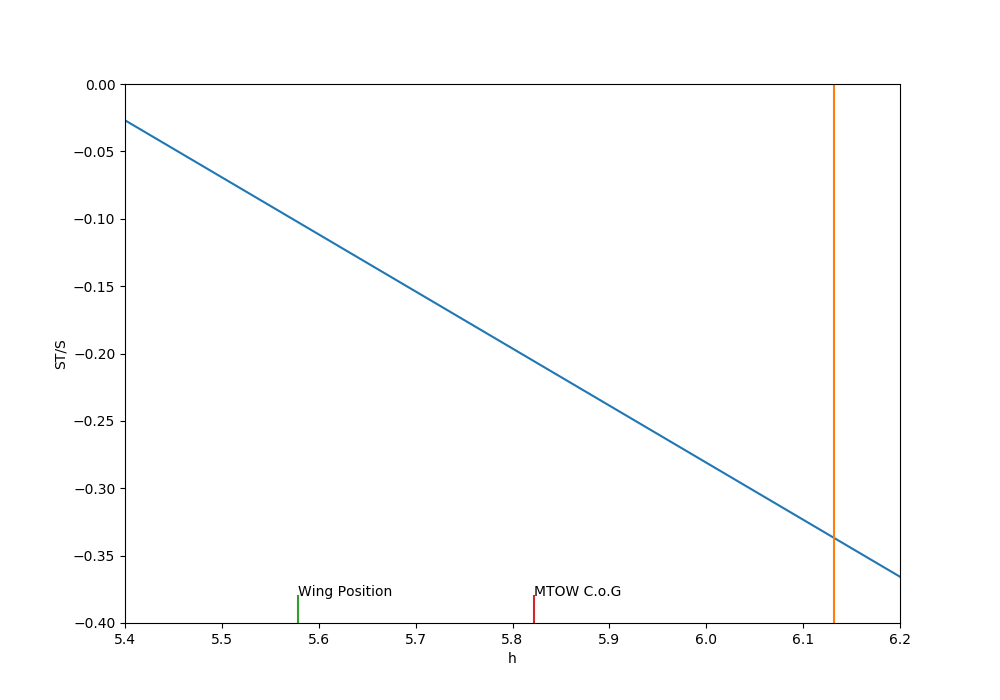
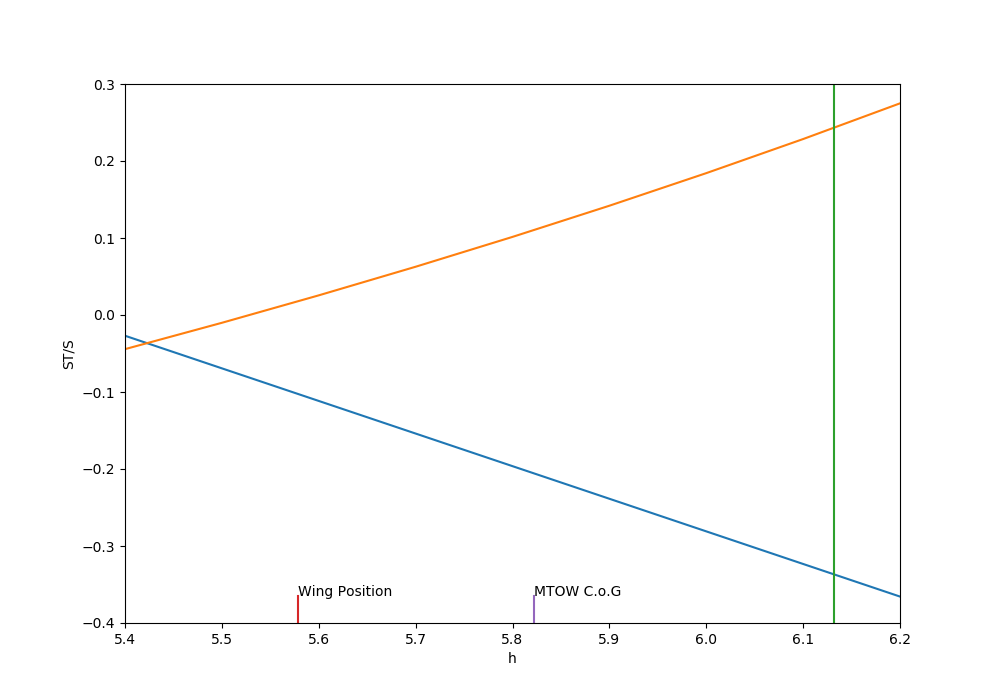
Add approx Kn function

diff --git a/scissorplot.py b/scissorplot.py
@@ -96,6 +96,20 @@ def takeOffRotation(h):
     return lhs_top/lhs_bottom
 
 
+def kn(h):
+    kn_limit = 0.05
+    tail_moment_arm = (params['TailRootRearPlane'] / c_bar) - h  # The tail moment to h
+    a1 = 4.2
+    a = 5.8
+    d_e_alpha = 0.2
+
+    lhs_top = kn_limit - h0 + h
+    lhs_bottom = tail_moment_arm * (a1/a) * (1-(d_e_alpha))
+
+    return lhs_top/lhs_bottom
+
+
+
 print(takeOffRotation(5.65))
 
 
@@ -114,6 +128,10 @@ def plotit(r1, r2):
     plt.plot(x_h, takeOffRotation(x_h))
     y_tails.append(min(takeOffRotation(x_h)))
     y_heads.append(max(takeOffRotation(x_h)))
+
+    plt.plot(x_h, kn(x_h))
+    y_tails.append(min(kn(x_h)))
+    y_heads.append(max(kn(x_h)))
 
     """This section constrains the graph correctly"""
     max_y = myceil(max(y_heads), step)
